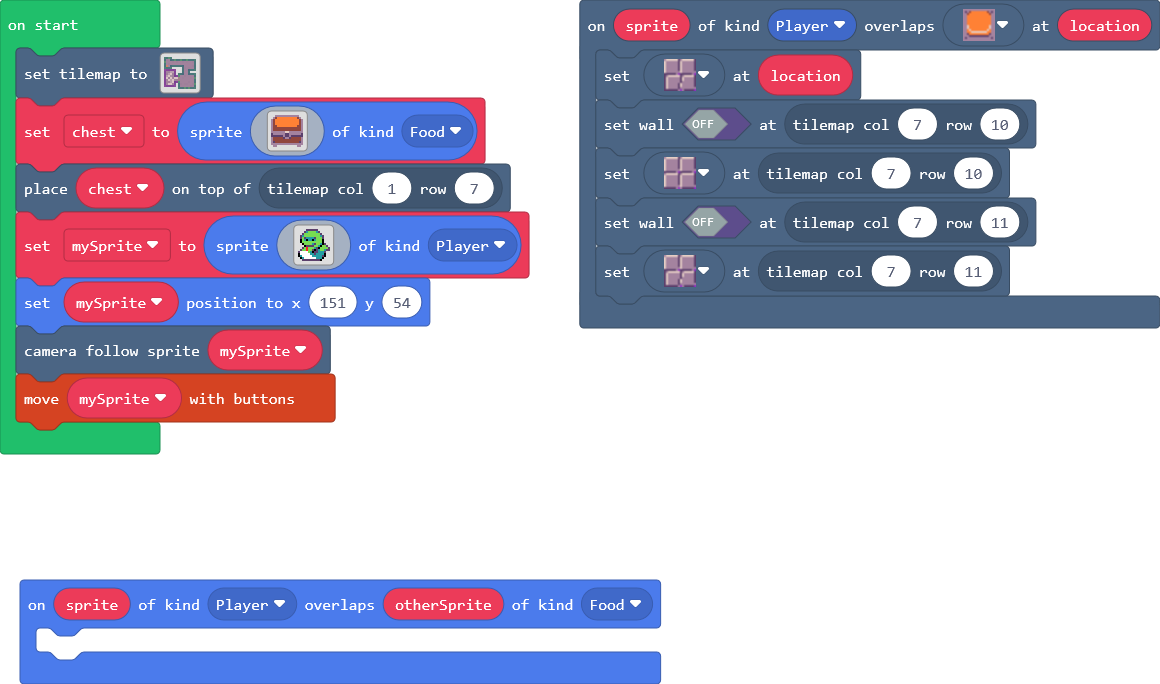
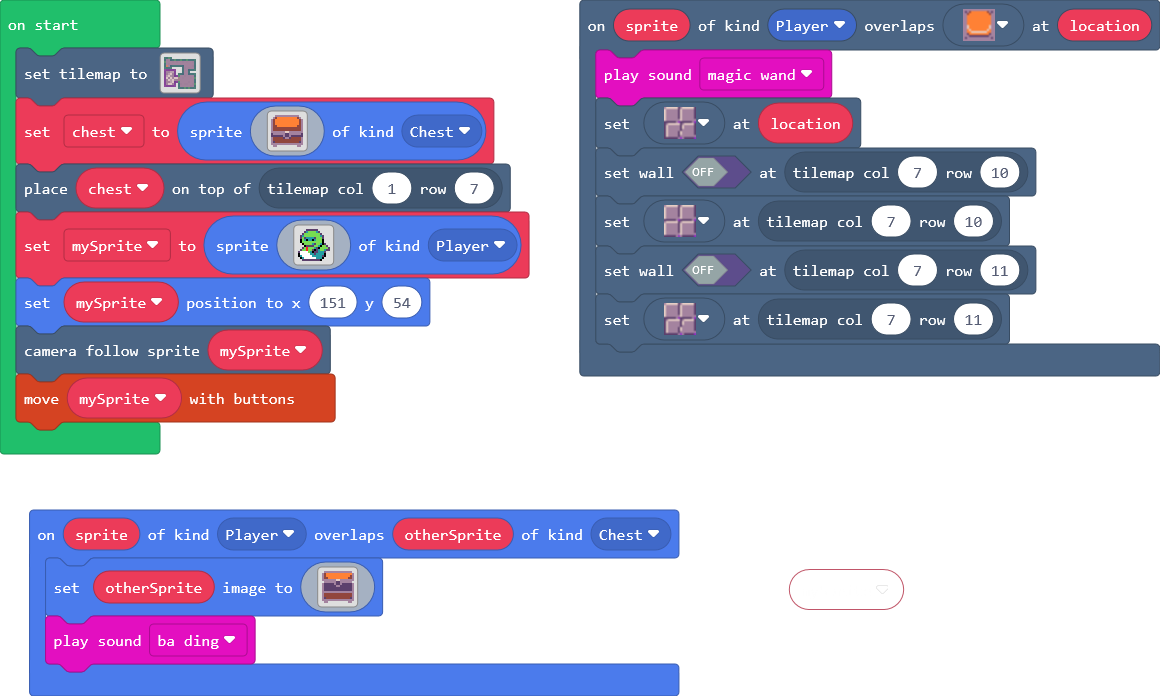
Chest opens, game won.

diff --git a/main.ts b/main.ts
@@ -1,3 +1,6 @@
+namespace SpriteKind {
+    export const Chest = SpriteKind.create()
+}
 namespace myTiles {
     //% blockIdentity=images._tile
     export const tile0 = img`
@@ -19,10 +22,30 @@ namespace myTiles {
 . . . . . . . . . . . . . . . . 
 `
 }
-sprites.onOverlap(SpriteKind.Player, SpriteKind.Food, function (sprite, otherSprite) {
-	
+sprites.onOverlap(SpriteKind.Player, SpriteKind.Chest, function (sprite, otherSprite) {
+    otherSprite.setImage(img`
+. b b b b b b b b b b b b b b . 
+b e 4 4 4 4 4 4 4 4 4 4 4 4 4 b 
+b e 4 4 4 4 4 4 4 4 4 4 4 4 e b 
+b e e 4 4 4 4 4 4 4 4 4 4 e e b 
+b b b b b b b d d b b b b b b b 
+. b b b b b b c c b b b b b b . 
+b c c c c c b c c b c c c c c b 
+b c c c c c c b b c c c c c c b 
+b c c c c c c c c c c c c c c b 
+b c c c c c c c c c c c c c c b 
+b b b b b b b b b b b b b b b b 
+b e e e e e e e e e e e e e e b 
+b e e e e e e e e e e e e e e b 
+b c e e e e e e e e e e e e c b 
+b b b b b b b b b b b b b b b b 
+. b b . . . . . . . . . . b b . 
+`)
+    music.baDing.play()
+    game.over(true)
 })
 scene.onOverlapTile(SpriteKind.Player, sprites.dungeon.buttonOrange, function (sprite, location) {
+    music.magicWand.play()
     tiles.setTileAt(location, sprites.dungeon.floorDark4)
     tiles.setWallAt(tiles.getTileLocation(7, 10), false)
     tiles.setTileAt(tiles.getTileLocation(7, 10), sprites.dungeon.floorDark0)
@@ -69,7 +92,7 @@ b e e e e e e e e e e e e e e b
 b c e e e e e e e e e e e e c b 
 b b b b b b b b b b b b b b b b 
 . b b . . . . . . . . . . b b . 
-`, SpriteKind.Food)
+`, SpriteKind.Chest)
 tiles.placeOnTile(chest, tiles.getTileLocation(1, 7))
 let mySprite = sprites.create(img`
 . . . . c c c c c c . . . . . . 
